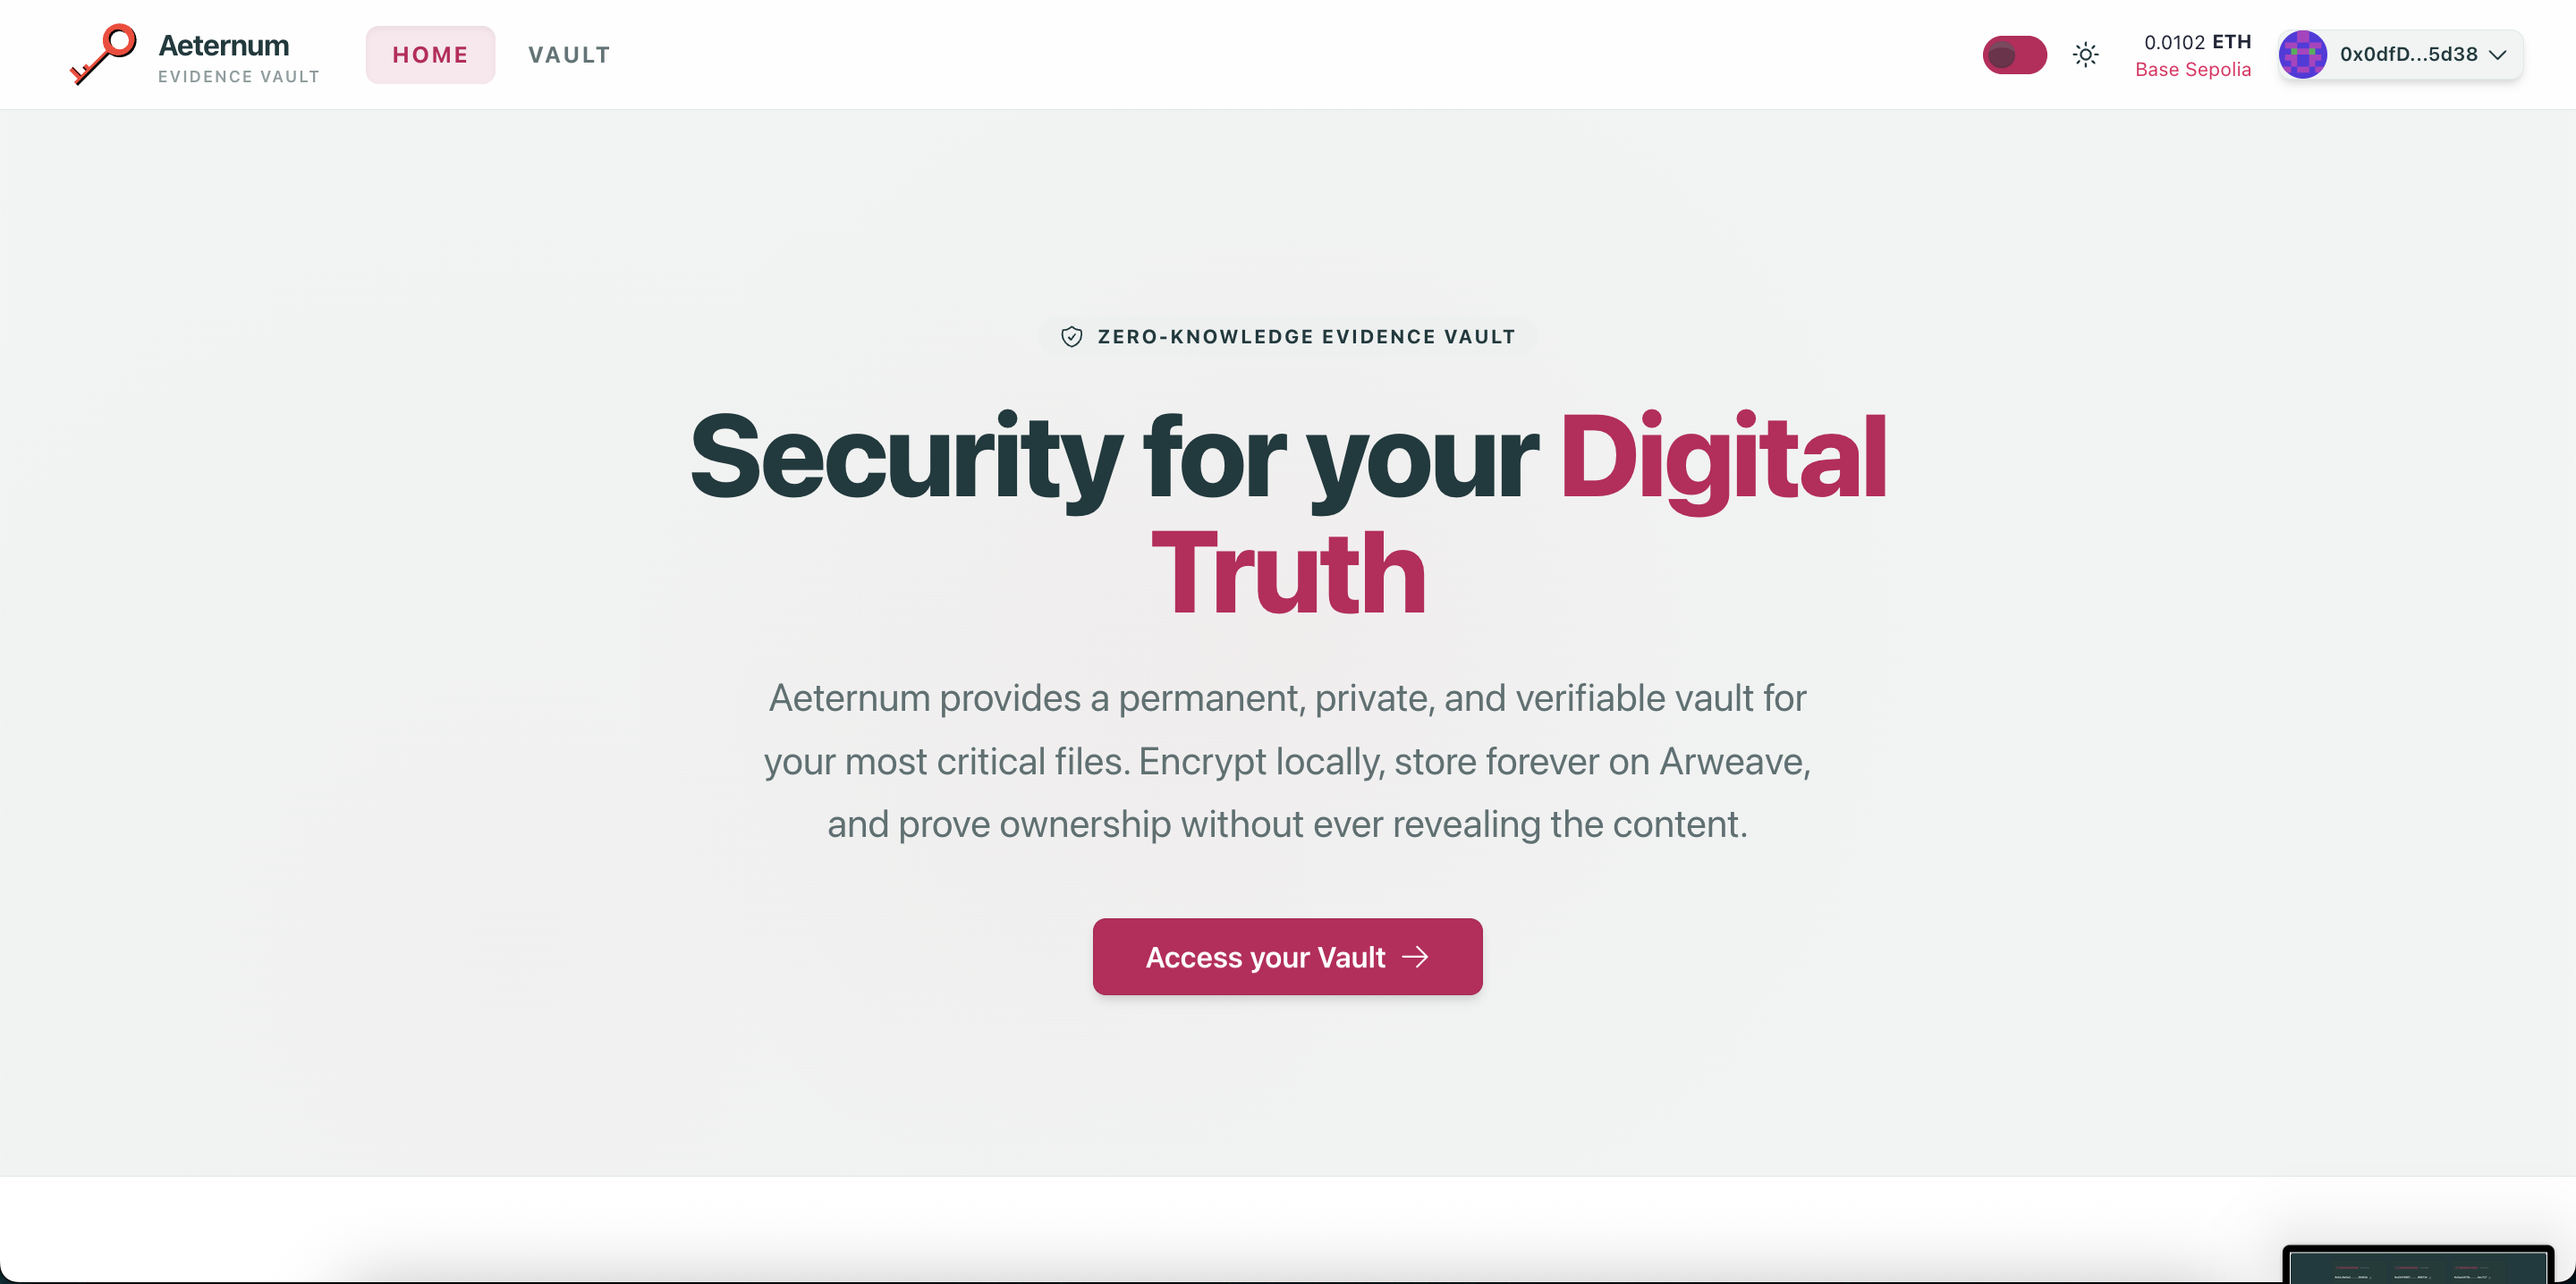
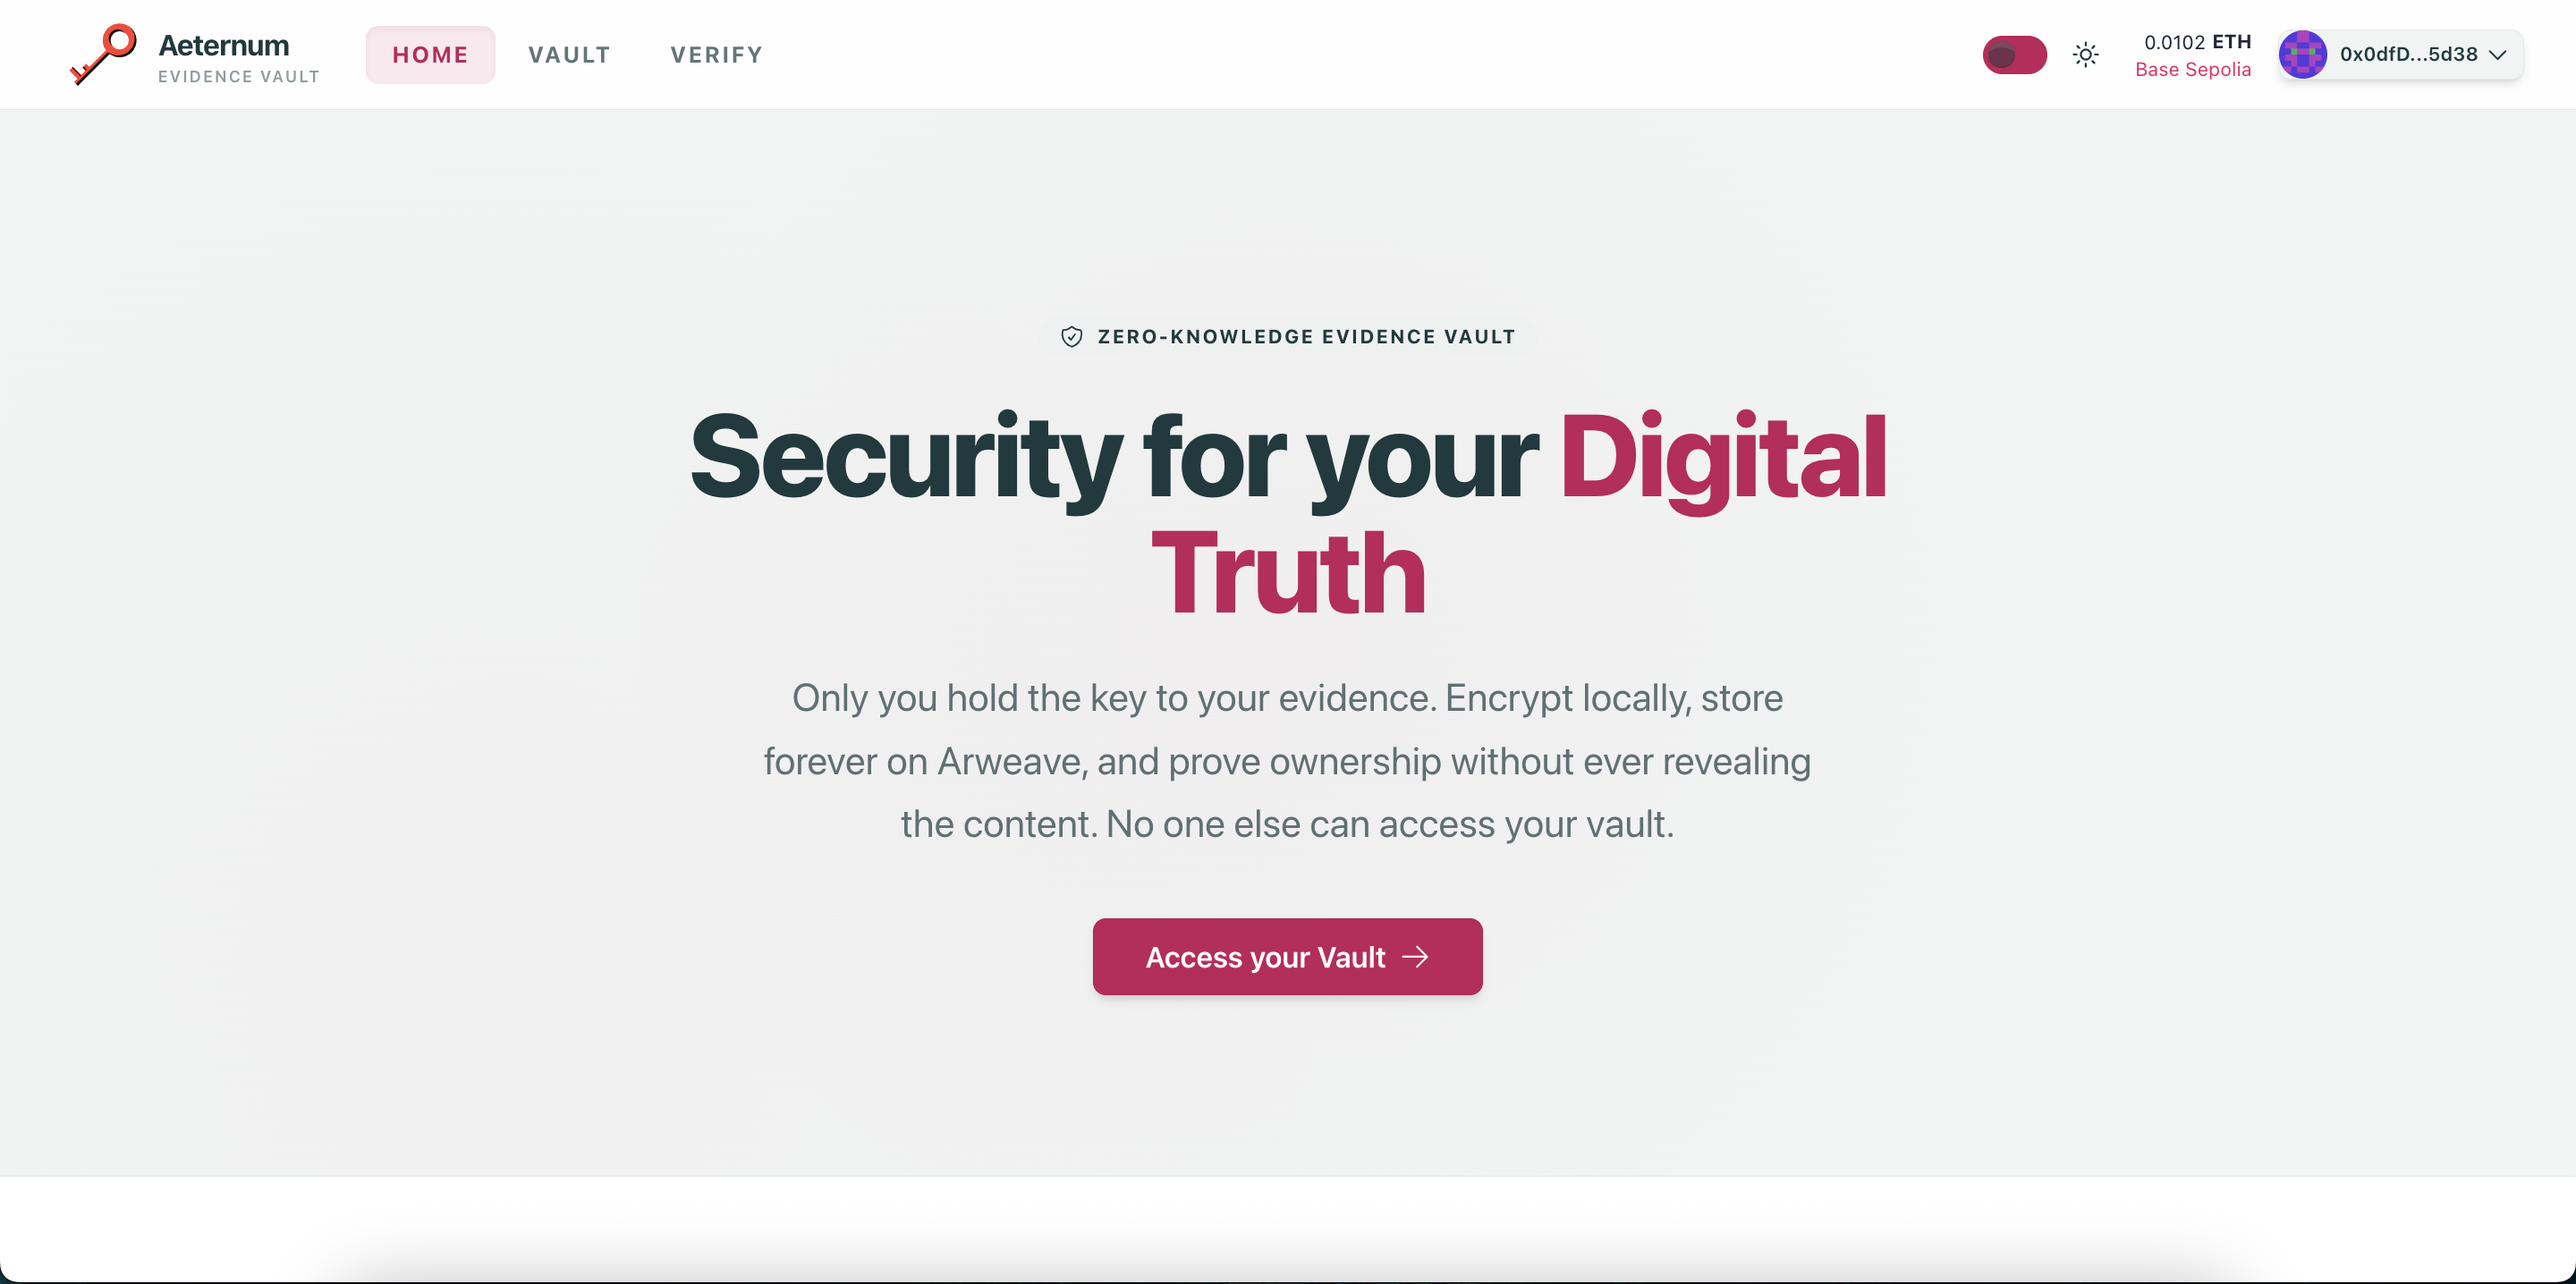
[docs]: Readme + ipfs guarantee (#148)

diff --git a/README.md b/README.md
@@ -28,6 +28,8 @@ A zero-knowledge, blockchain-timestamped evidence vault. Only you hold the key t
 ![Sample evidences](./assets/img2.png)
 ![Verification](./assets/img4.png)
 ![Evidence secured sample](./assets/img5.png)
+![IPFS Data is encrypted](./assets/img6.png)
+
 
 
 ## Deployed contracts (Base Sepolia)
@@ -47,11 +49,11 @@ The vault’s ZK verifier is set to the Groth16VerifierWrapper. Indexer (Ponder)
 
 ## Features
 
-- **You hold the key** — Only you can decrypt and recover your evidence. Client-side AES-256 encryption; your secret never leaves your device.
-- **Permanent storage** — Arweave primary, optional IPFS backup. Proof metadata mirrored to Supabase for reliable listing.
-- **Verify & recover** — Dedicated verification page: paste your secret to find which evidence it unlocks; verify ownership (ZK) or recover files. Keys stay local.
-- **Verifiable proofs** — On-chain hash + ZK commitment on Base; evidence certificate for offline verification.
-- **Developer-friendly** — UUPS upgradeable contracts, modular design.
+- **You hold the key**: Only you can decrypt and recover your evidence. Client-side AES-256 encryption; your secret never leaves your device.
+- **Permanent storage**: Arweave is the primary store, with an optional IPFS backup. Files stored on both Arweave and IPFS are encrypted client side, as illustrated by the IPFS encryption screenshot in ![IPFS files Encrypted too](./assets/img6.png), so full privacy is preserved.
+- **Verify & recover**: Dedicated verification page where you paste your secret once to find which evidence it unlocks; verify ownership (ZK) or recover files. Keys stay local.
+- **Verifiable proofs**: On-chain hash plus ZK commitment on Base; evidence certificate for offline verification.
+- **Developer-friendly**: UUPS upgradeable contracts and modular design.
 
 ---
 
